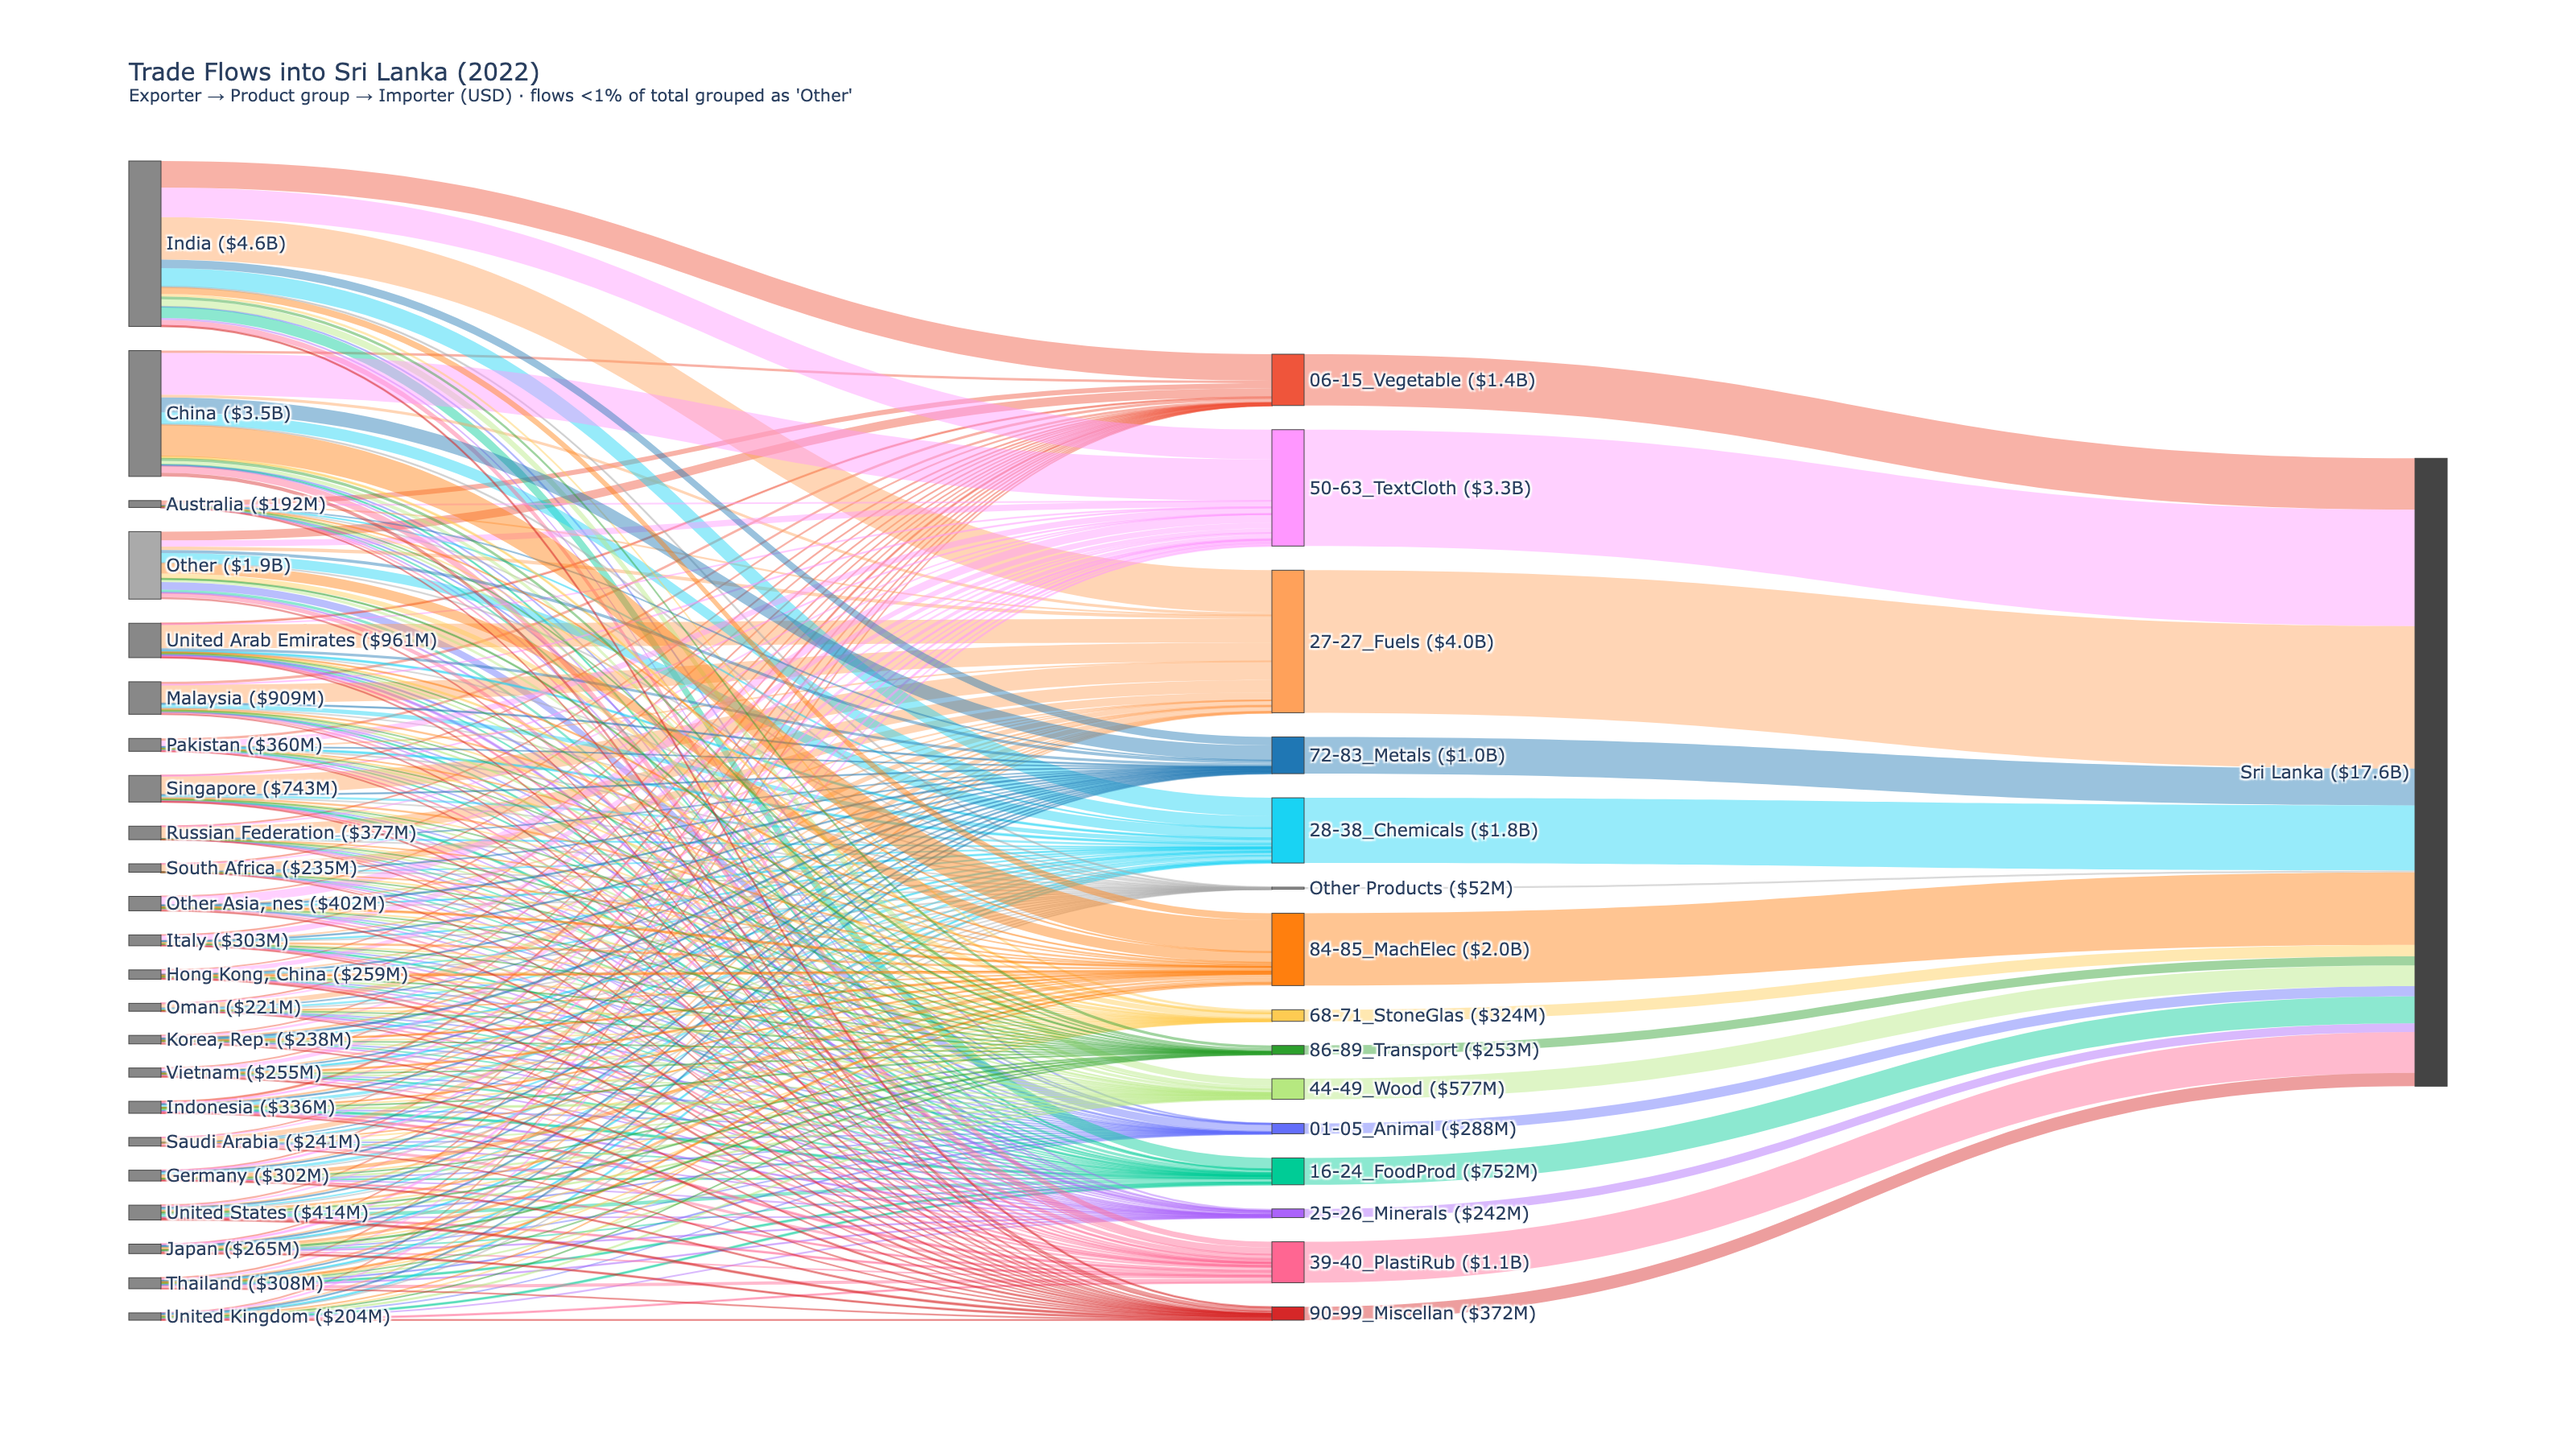
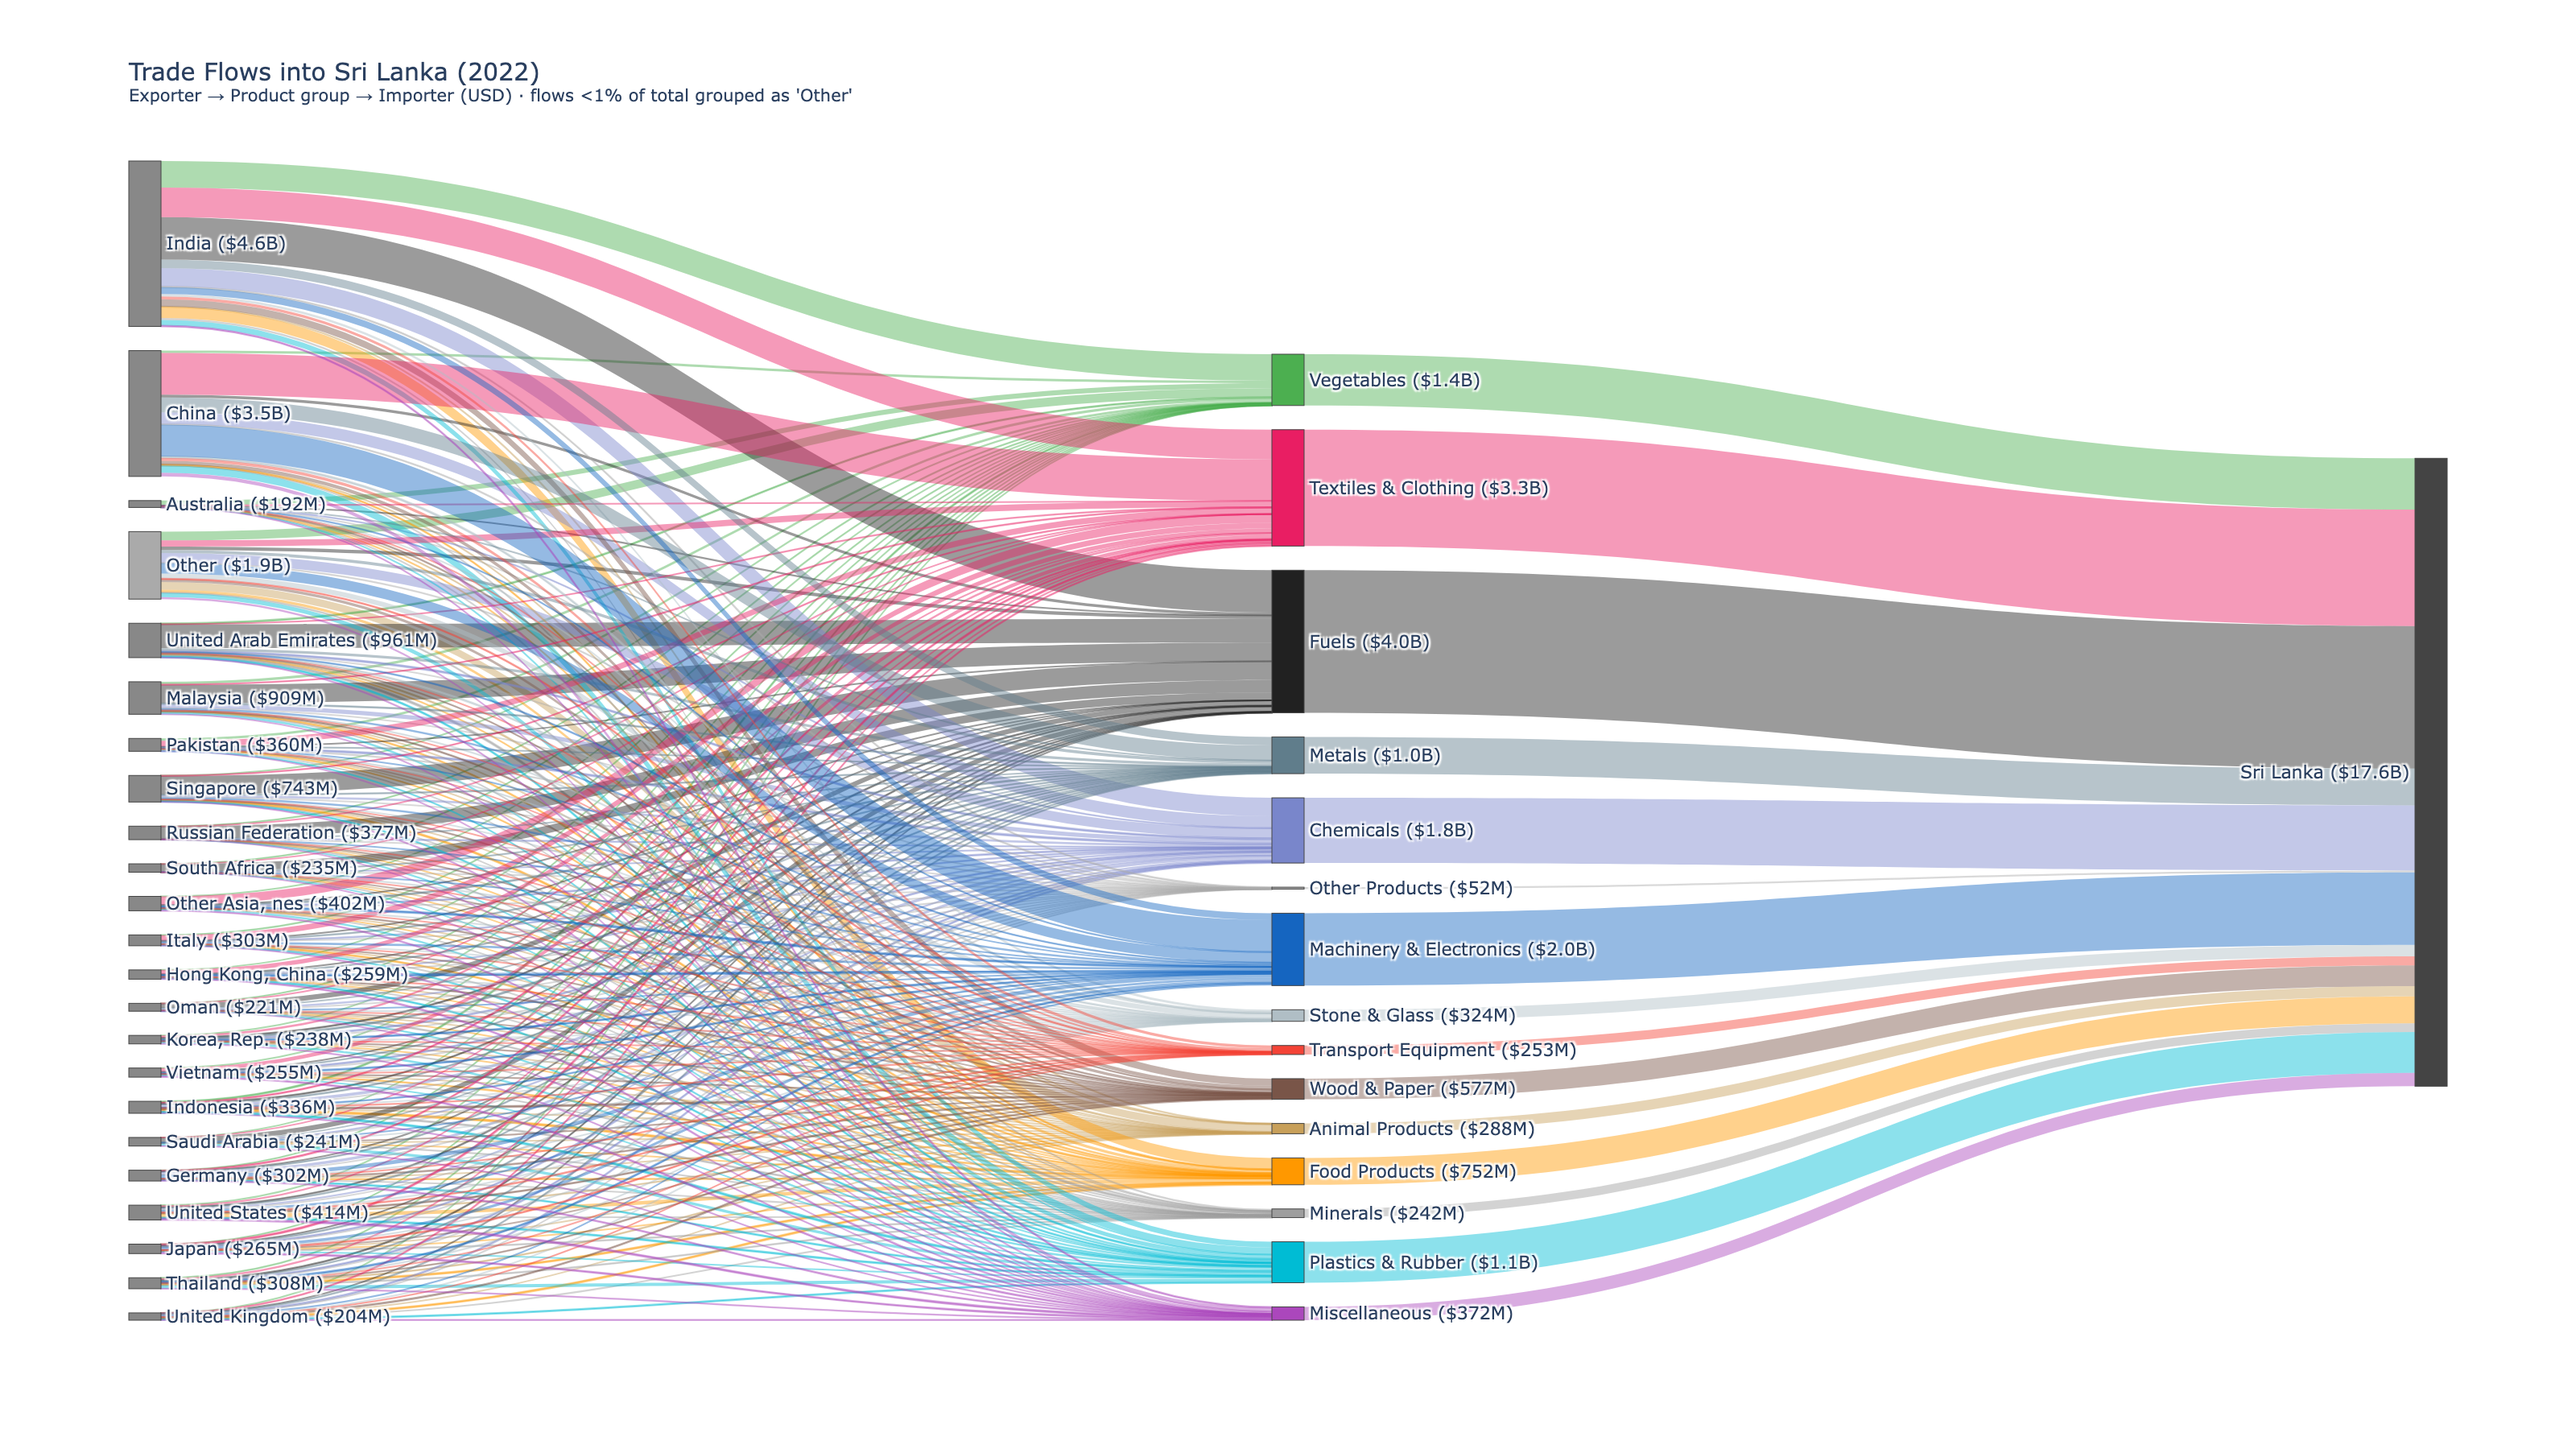
Refactor Sankey diagram color and label handling for product categories

diff --git a/src/lk_world_trade/_sankey.py b/src/lk_world_trade/_sankey.py
@@ -6,27 +6,57 @@ from ._trade_info import TradeInfo
 
 _IMAGES_DIR = os.path.join(os.path.dirname(__file__), "..", "..", "images")
 
-_PALETTE = [
-    "#636EFA",
-    "#EF553B",
-    "#00CC96",
-    "#AB63FA",
-    "#FFA15A",
-    "#19D3F3",
-    "#FF6692",
-    "#B6E880",
-    "#FF97FF",
-    "#FECB52",
-    "#1F77B4",
-    "#FF7F0E",
-    "#2CA02C",
-    "#D62728",
-    "#9467BD",
-    "#8C564B",
-]
+# Semantic colors keyed by WITS sector group code
+_PRODUCT_COLORS: dict[str, str] = {
+    "01-05_Animal":    "#C8A05A",  # tan/leather – animal products
+    "06-15_Vegetable": "#4CAF50",  # green – vegetable/plant
+    "16-24_FoodProd":  "#FF9800",  # amber – processed food
+    "25-26_Minerals":  "#9E9E9E",  # stone grey – minerals/rock
+    "27-27_Fuels":     "#212121",  # near-black – coal/oil
+    "28-38_Chemicals": "#7986CB",  # indigo – chemicals/lab
+    "39-40_PlastiRub": "#00BCD4",  # cyan – plastic/synthetic
+    "41-43_HidesSkin": "#8D6E63",  # brown – hides/leather
+    "44-49_Wood":      "#795548",  # wood brown
+    "50-63_TextCloth": "#E91E63",  # pink/rose – textiles
+    "64-67_Footwear":  "#FF5722",  # deep orange – footwear
+    "68-71_StoneGlas": "#B0BEC5",  # light grey-blue – glass/stone
+    "72-83_Metals":    "#607D8B",  # steel blue-grey – metals
+    "84-85_MachElec":  "#1565C0",  # deep blue – machinery/electronics
+    "86-89_Transport": "#F44336",  # red – transport
+    "90-99_Miscellan": "#AB47BC",  # purple – miscellaneous
+}
+_FALLBACK_COLOR = "#636EFA"
+
+# Human-readable short names for WITS sector groups
+_PRODUCT_LABELS: dict[str, str] = {
+    "01-05_Animal":    "Animal Products",
+    "06-15_Vegetable": "Vegetables",
+    "16-24_FoodProd":  "Food Products",
+    "25-26_Minerals":  "Minerals",
+    "27-27_Fuels":     "Fuels",
+    "28-38_Chemicals": "Chemicals",
+    "39-40_PlastiRub": "Plastics & Rubber",
+    "41-43_HidesSkin": "Hides & Skins",
+    "44-49_Wood":      "Wood & Paper",
+    "50-63_TextCloth": "Textiles & Clothing",
+    "64-67_Footwear":  "Footwear",
+    "68-71_StoneGlas": "Stone & Glass",
+    "72-83_Metals":    "Metals",
+    "84-85_MachElec":  "Machinery & Electronics",
+    "86-89_Transport": "Transport Equipment",
+    "90-99_Miscellan": "Miscellaneous",
+}
 
 _OTHER_LABEL = "Other"
 _OTHER_COLOR = "#AAAAAA"
+
+
+def _product_color(code: str) -> str:
+    return _PRODUCT_COLORS.get(code, _FALLBACK_COLOR)
+
+
+def _product_label(code: str) -> str:
+    return _PRODUCT_LABELS.get(code, code)
 
 
 def _rgba(hex_color: str, alpha: float) -> str:
@@ -81,18 +111,24 @@ class Sankey:
             product_totals[product] = product_totals.get(product, 0.0) + value
 
         # Threshold filtering
-        sig_countries = {c for c, v in country_totals.items() if v >= threshold_value}
+        sig_countries = {
+            c for c, v in country_totals.items() if v >= threshold_value
+        }
         has_other_country = len(sig_countries) < len(country_totals)
-        sig_products = sorted(p for p, v in product_totals.items() if v >= threshold_value)
+        sig_products = sorted(
+            p for p, v in product_totals.items() if v >= threshold_value
+        )
         has_other_product = len(sig_products) < len(product_totals)
 
         countries_sorted = sorted(sig_countries)
-        product_colors = {
-            p: _PALETTE[i % len(_PALETTE)] for i, p in enumerate(sig_products)
-        }
+        product_colors = {p: _product_color(p) for p in sig_products}
 
-        other_country_total = sum(v for (_, c), v in raw.items() if c not in sig_countries)
-        other_product_total = sum(v for (p, _), v in raw.items() if p not in set(sig_products))
+        other_country_total = sum(
+            v for (_, c), v in raw.items() if c not in sig_countries
+        )
+        other_product_total = sum(
+            v for (p, _), v in raw.items() if p not in set(sig_products)
+        )
 
         # ------------------------------------------------------------------ #
         # Node layout                                                          #
@@ -105,16 +141,22 @@ class Sankey:
         # ------------------------------------------------------------------ #
         if country_is_left:
             c_idx = {c: i for i, c in enumerate(countries_sorted)}
-            other_country_idx = len(countries_sorted) if has_other_country else None
+            other_country_idx = (
+                len(countries_sorted) if has_other_country else None
+            )
             p_base = len(countries_sorted) + (1 if has_other_country else 0)
             p_idx = {p: p_base + i for i, p in enumerate(sig_products)}
-            other_product_idx = p_base + len(sig_products) if has_other_product else None
-            focal_idx = p_base + len(sig_products) + (1 if has_other_product else 0)
+            other_product_idx = (
+                p_base + len(sig_products) if has_other_product else None
+            )
+            focal_idx = (
+                p_base + len(sig_products) + (1 if has_other_product else 0)
+            )
 
             node_labels = (
                 countries_sorted
                 + ([_OTHER_LABEL] if has_other_country else [])
-                + sig_products
+                + [_product_label(p) for p in sig_products]
                 + (["Other Products"] if has_other_product else [])
                 + [focal_label]
             )
@@ -135,14 +177,18 @@ class Sankey:
         else:
             focal_idx = 0
             p_idx = {p: 1 + i for i, p in enumerate(sig_products)}
-            other_product_idx = 1 + len(sig_products) if has_other_product else None
+            other_product_idx = (
+                1 + len(sig_products) if has_other_product else None
+            )
             c_base = 1 + len(sig_products) + (1 if has_other_product else 0)
             c_idx = {c: c_base + i for i, c in enumerate(countries_sorted)}
-            other_country_idx = c_base + len(countries_sorted) if has_other_country else None
+            other_country_idx = (
+                c_base + len(countries_sorted) if has_other_country else None
+            )
 
             node_labels = (
                 [focal_label]
-                + sig_products
+                + [_product_label(p) for p in sig_products]
                 + (["Other Products"] if has_other_product else [])
                 + countries_sorted
                 + ([_OTHER_LABEL] if has_other_country else [])
@@ -163,7 +209,8 @@ class Sankey:
             )
 
         node_labels_ann = [
-            f"{lbl} ({_fmt_musd(t)})" for lbl, t in zip(node_labels, node_totals)
+            f"{lbl} ({_fmt_musd(t)})"
+            for lbl, t in zip(node_labels, node_totals)
         ]
 
         # ------------------------------------------------------------------ #
@@ -197,7 +244,9 @@ class Sankey:
             sources.append(src)
             targets.append(tgt)
             values.append(value)
-            link_colors.append(_rgba(product_colors.get(lp, _OTHER_COLOR), 0.45))
+            link_colors.append(
+                _rgba(product_colors.get(lp, _OTHER_COLOR), 0.45)
+            )
 
         # Assemble figure
         fig = go.Figure(
@@ -226,7 +275,9 @@ class Sankey:
         return fig
 
     @staticmethod
-    def draw(importer: str, year: int, other_threshold: float = 0.02) -> go.Figure:
+    def draw(
+        importer: str, year: int, other_threshold: float = 0.02
+    ) -> go.Figure:
         """Sankey of all imports into ``importer`` for ``year``.
 
         Layout: Exporter countries → Product groups → Importer
@@ -237,7 +288,9 @@ class Sankey:
         for product, by_country in trade_info.data.items():
             for country, value in by_country.items():
                 if value and value > 0:
-                    raw[(product, country)] = raw.get((product, country), 0.0) + value
+                    raw[(product, country)] = (
+                        raw.get((product, country), 0.0) + value
+                    )
 
         grand_total = sum(raw.values())
         if grand_total == 0:
@@ -250,7 +303,9 @@ class Sankey:
             f" · flows &lt;{pct}% of total grouped as 'Other'</sup>"
         )
         safe = importer.replace(" ", "_")
-        png_path = os.path.join(os.path.normpath(_IMAGES_DIR), f"sankey_{safe}_{year}.png")
+        png_path = os.path.join(
+            os.path.normpath(_IMAGES_DIR), f"sankey_{safe}_{year}.png"
+        )
 
         return Sankey._render(
             raw=raw,
@@ -263,7 +318,9 @@ class Sankey:
         )
 
     @staticmethod
-    def draw_exports(exporter: str, year: int, other_threshold: float = 0.02) -> go.Figure:
+    def draw_exports(
+        exporter: str, year: int, other_threshold: float = 0.02
+    ) -> go.Figure:
         """Sankey of all exports from ``exporter`` for ``year``.
 
         Layout: Exporter → Product groups → Importer countries
@@ -274,7 +331,9 @@ class Sankey:
         for product, by_country in trade_info.data.items():
             for country, value in by_country.items():
                 if value and value > 0:
-                    raw[(product, country)] = raw.get((product, country), 0.0) + value
+                    raw[(product, country)] = (
+                        raw.get((product, country), 0.0) + value
+                    )
 
         grand_total = sum(raw.values())
         if grand_total == 0:
@@ -300,4 +359,3 @@ class Sankey:
             title_text=title,
             png_path=png_path,
         )
-
